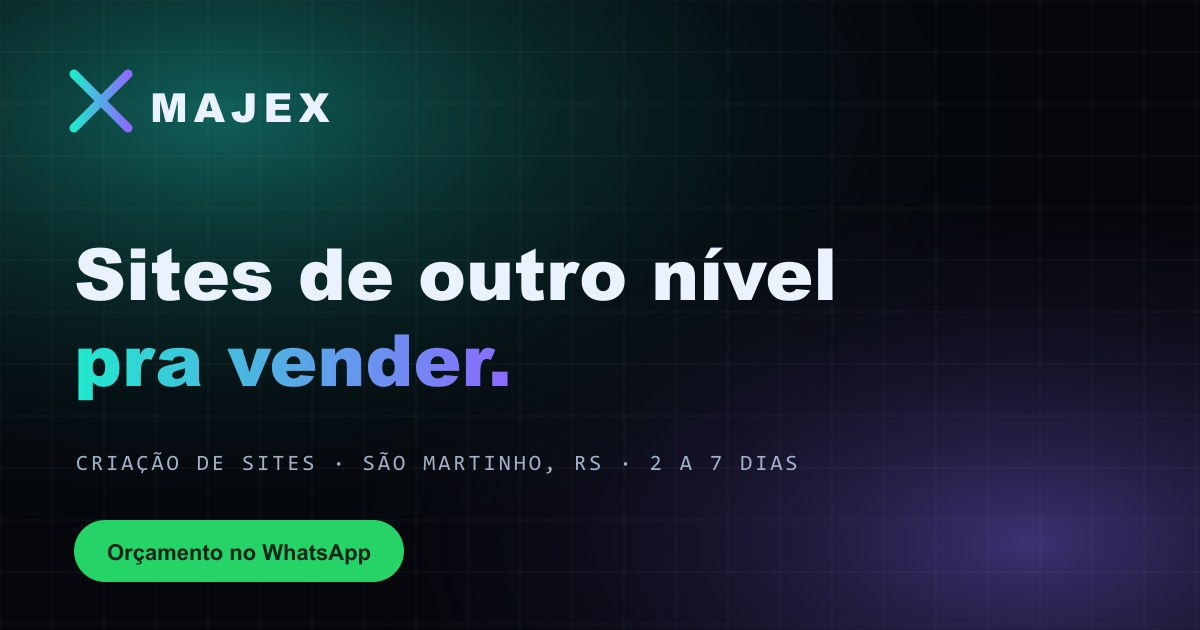
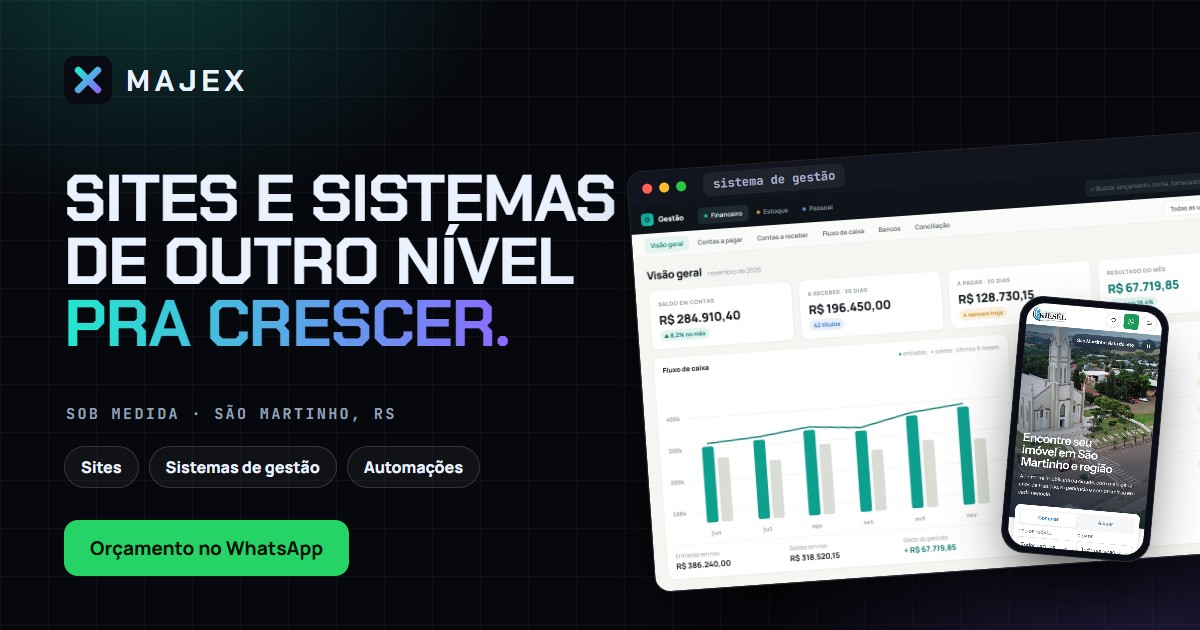
Imagem de compartilhamento nova (sites e sistemas), FAQPage e catálogo de serviços no JSON-LD, sitemap atualizado; imagens abaixo da dobra carregam sob demanda (celular 836→412 KB na abertura)

diff --git a/index.html b/index.html
@@ -13,7 +13,7 @@
 <meta property="og:image" content="https://www.majexsites.com.br/og.jpg">
 <meta property="og:image:width" content="1200">
 <meta property="og:image:height" content="630">
-<meta property="og:image:alt" content="MAJEX Digital Solutions: criação de sites">
+<meta property="og:image:alt" content="MAJEX Digital Solutions: sites, sistemas de gestão e automações sob medida">
 <meta property="og:locale" content="pt_BR">
 <meta property="og:site_name" content="MAJEX Digital Solutions">
 <meta name="twitter:card" content="summary_large_image">
@@ -23,7 +23,7 @@
 <meta name="theme-color" content="#05070C">
 <link rel="preload" as="image" href="img/shot-1-1280.webp" imagesrcset="img/shot-1-640.webp 640w, img/shot-1-1280.webp 1280w" imagesizes="(max-width:760px) 92vw, 900px" fetchpriority="high">
 <link rel="canonical" href="https://www.majexsites.com.br/">
-<script type="application/ld+json">{"@context":"https://schema.org","@type":"ProfessionalService","name":"MAJEX Digital Solutions","alternateName":"MAJEX Sites","description":"Criação de sites e sistemas sob medida para empresas: loja virtual, revenda de veículos, cardápio digital, imobiliária e prestadores de serviço.","url":"https://www.majexsites.com.br/","image":"https://www.majexsites.com.br/og.jpg","telephone":"+55 55 99624-1177","priceRange":"$","address":{"@type":"PostalAddress","addressLocality":"São Martinho","addressRegion":"RS","addressCountry":"BR"},"areaServed":["Santa Rosa","São Martinho","Horizontina","Três de Maio","Santo Cristo","Giruá","Tuparendi","Ijuí","Panambi","Cruz Alta","Noroeste do Rio Grande do Sul","Brasil"],"sameAs":["https://www.instagram.com/majexds/"],"knowsAbout":["criação de sites","landing page","sistemas sob medida","automação empresarial","automação de WhatsApp","controle de estoque","sistema financeiro","departamento pessoal","sistema para contabilidade","orçamento com projeto 3D","CRM","integração por API","site para revenda de veículos","cardápio digital","site para imobiliária","site para loja"],"makesOffer":[{"@type":"Offer","itemOffered":{"@type":"Service","name":"Criação de site para empresa"}},{"@type":"Offer","itemOffered":{"@type":"Service","name":"Atualização de estoque para revenda de veículos"}}]}</script>
+<script type="application/ld+json">[{"@context":"https://schema.org","@type":"ProfessionalService","name":"MAJEX Digital Solutions","alternateName":"MAJEX Sites","description":"Criação de sites e sistemas sob medida para empresas: loja virtual, revenda de veículos, cardápio digital, imobiliária e prestadores de serviço.","url":"https://www.majexsites.com.br/","image":"https://www.majexsites.com.br/og.jpg","telephone":"+55 55 99624-1177","priceRange":"$","address":{"@type":"PostalAddress","addressLocality":"São Martinho","addressRegion":"RS","addressCountry":"BR"},"areaServed":["Santa Rosa","São Martinho","Horizontina","Três de Maio","Santo Cristo","Giruá","Tuparendi","Ijuí","Panambi","Cruz Alta","Noroeste do Rio Grande do Sul","Brasil"],"sameAs":["https://www.instagram.com/majexds/"],"knowsAbout":["criação de sites","landing page","sistemas sob medida","automação empresarial","automação de WhatsApp","controle de estoque","sistema financeiro","departamento pessoal","sistema para contabilidade","orçamento com projeto 3D","CRM","integração por API","site para revenda de veículos","cardápio digital","site para imobiliária","site para loja"],"makesOffer":[{"@type":"Offer","itemOffered":{"@type":"Service","name":"Criação de site para empresa"}},{"@type":"Offer","itemOffered":{"@type":"Service","name":"Atualização de estoque para revenda de veículos"}}],"hasOfferCatalog":{"@type":"OfferCatalog","name":"Sites, sistemas e automações","itemListElement":[{"@type":"Offer","itemOffered":{"@type":"Service","name":"Criação de sites","description":"Sites e landing pages sob medida, rápidos e otimizados para o Google, com WhatsApp integrado."}},{"@type":"Offer","itemOffered":{"@type":"Service","name":"Sistema de gestão sob medida","description":"Módulos de financeiro, controle de estoque e departamento pessoal integrados."}},{"@type":"Offer","itemOffered":{"@type":"Service","name":"Automação de WhatsApp","description":"Envio de avisos, lembretes e cobranças programados para muitos contatos."}},{"@type":"Offer","itemOffered":{"@type":"Service","name":"Sistema de orçamentos e projetos 3D","description":"Cálculo automático, desenho técnico, lista de materiais e orçamento em PDF."}},{"@type":"Offer","itemOffered":{"@type":"Service","name":"Integrações por API","description":"Conexão com fornecedores, planilhas, lojas e sistemas existentes."}}]}},{"@context":"https://schema.org","@type":"FAQPage","mainEntity":[{"@type":"Question","name":"Vocês fazem sistemas, além de sites?","acceptedAnswer":{"@type":"Answer","text":"Sim. A MAJEX desenvolve sistemas sob medida: WhatsApp automático, controle de estoque, financeiro, departamento pessoal, rotinas contábeis, orçamentos com projeto em 3D, painéis, CRM e integração com fornecedores. Tudo roda no navegador, no computador e no celular, sem instalar nada."}},{"@type":"Question","name":"Quanto custa um sistema sob medida?","acceptedAnswer":{"@type":"Answer","text":"Depende do tamanho do processo. A gente conversa, entende como a sua equipe trabalha hoje e manda uma proposta com prazo e valor fechados antes de começar. Sem surpresa no meio do caminho."}},{"@type":"Question","name":"E se eu já uso planilhas ou outro sistema?","acceptedAnswer":{"@type":"Answer","text":"Melhor ainda: aproveitamos o que já existe. Importamos as planilhas e, quando o sistema atual permite, fazemos a integração para os dados conversarem sem ninguém precisar digitar duas vezes."}},{"@type":"Question","name":"Quanto tempo leva para ficar pronto?","acceptedAnswer":{"@type":"Answer","text":"Na maioria dos casos, entre 2 e 7 dias. Depende do tamanho do site e da rapidez com que você me envia textos e fotos — mas eu te ajudo com isso também."}},{"@type":"Question","name":"Eu preciso entender de tecnologia?","acceptedAnswer":{"@type":"Answer","text":"Não. A MAJEX cuida de tudo: domínio, e-mail, hospedagem e publicação. Você só me conta sobre o seu negócio e aprova o que eu criar."}},{"@type":"Question","name":"Funciona bem no celular?","acceptedAnswer":{"@type":"Answer","text":"Sempre. Todo site é feito primeiro pensando no celular, porque é de lá que vem a maioria dos seus clientes. Fica perfeito em telefone, tablet e computador."}},{"@type":"Question","name":"Depois de pronto, dá para mudar coisas?","acceptedAnswer":{"@type":"Answer","text":"Claro. Fazemos ajustes até você aprovar, e depois ofereço suporte e pacotes de manutenção para atualizações, novas fotos, promoções e o que surgir."}},{"@type":"Question","name":"Como faço para começar?","acceptedAnswer":{"@type":"Answer","text":"É só chamar a MAJEX no WhatsApp. A gente conversa sobre o seu negócio, eu te passo um orçamento sem compromisso e, se fizer sentido, começamos."}}]}]</script>
 <title>Criação de sites e sistemas sob medida | MAJEX Digital Solutions</title>
 <link rel="icon" href="/favicon.ico" sizes="any">
 <link rel="icon" type="image/svg+xml" href="/favicon.svg">
@@ -1095,7 +1095,7 @@ svg.sb-viz{height:118px}
             <span class="sr-url"><svg viewBox="0 0 24 24" fill="none" stroke="currentColor" stroke-width="2"><rect x="3" y="11" width="18" height="11" rx="2"/><path d="M7 11V7a5 5 0 0 1 10 0v4"/></svg><span id="srUrl">imobiliariakiesel.com.br</span></span>
             <span class="sr-live">LIVE</span></div>
           <div class="sr-screen sr2-screen" id="srScreen">
-            <img class="sr2-img on" data-i="0" alt="Imobiliária Kiesel, versão computador" src="img/vivo-kiesel-desk-1280.webp" srcset="img/vivo-kiesel-desk-1280.webp 1280w, img/vivo-kiesel-desk-2560.webp 2560w" width="1280" height="800" sizes="(max-width:760px) 92vw, 900px" loading="eager" decoding="async" fetchpriority="high">
+            <img class="sr2-img on" data-i="0" alt="Imobiliária Kiesel, versão computador" src="img/vivo-kiesel-desk-1280.webp" srcset="img/vivo-kiesel-desk-1280.webp 1280w, img/vivo-kiesel-desk-2560.webp 2560w" width="1280" height="800" sizes="(max-width:760px) 92vw, 900px" loading="lazy" decoding="async">
             <img class="sr2-img" data-i="1" alt="Grupo Larssen, versão computador" src="img/vivo-larssen-desk-1280.webp" srcset="img/vivo-larssen-desk-1280.webp 1280w, img/vivo-larssen-desk-2560.webp 2560w" width="1280" height="800" sizes="(max-width:760px) 92vw, 900px" loading="lazy" decoding="async">
             <img class="sr2-img" data-i="2" alt="Khaus Brindes, versão computador" src="img/vivo-khaus-desk-1280.webp" srcset="img/vivo-khaus-desk-1280.webp 1280w, img/vivo-khaus-desk-2560.webp 2560w" width="1280" height="800" sizes="(max-width:760px) 92vw, 900px" loading="lazy" decoding="async">
             <img class="sr2-img" data-i="3" alt="Sua Revenda, versão computador" src="img/shot-1-1280.webp" srcset="img/shot-1-640.webp 640w, img/shot-1-1280.webp 1280w" width="1400" height="875" sizes="(max-width:760px) 92vw, 900px" loading="lazy" decoding="async">
@@ -1105,7 +1105,7 @@ svg.sb-viz{height:118px}
           </div>
         </div>
         <div class="sr2-phone"><div class="sr-pshell"><div class="sr-pscreen" id="srPscreen"><div class="sr-notch"></div>
-          <img class="sr2-img on" data-i="0" alt="" src="img/vivo-kiesel-cel-600.webp" srcset="img/vivo-kiesel-cel-600.webp 600w, img/vivo-kiesel-cel-780.webp 780w" sizes="(max-width:760px) 40vw, 240px" width="600" height="1298" loading="eager" decoding="async">
+          <img class="sr2-img on" data-i="0" alt="" src="img/vivo-kiesel-cel-600.webp" srcset="img/vivo-kiesel-cel-600.webp 600w, img/vivo-kiesel-cel-780.webp 780w" sizes="(max-width:760px) 40vw, 240px" width="600" height="1298" loading="lazy" decoding="async">
           <img class="sr2-img" data-i="1" alt="" src="img/vivo-larssen-cel-600.webp" srcset="img/vivo-larssen-cel-600.webp 600w, img/vivo-larssen-cel-780.webp 780w" sizes="(max-width:760px) 40vw, 240px" width="600" height="1298" loading="lazy" decoding="async">
           <img class="sr2-img" data-i="2" alt="" src="img/vivo-khaus-cel-600.webp" srcset="img/vivo-khaus-cel-600.webp 600w, img/vivo-khaus-cel-780.webp 780w" sizes="(max-width:760px) 40vw, 240px" width="600" height="1298" loading="lazy" decoding="async">
           <img class="sr2-img" data-i="3" alt="" src="img/shot-5-320.webp" srcset="img/shot-5-320.webp 320w" sizes="(max-width:760px) 40vw, 240px" width="600" height="1298" loading="lazy" decoding="async">
@@ -2116,7 +2116,7 @@ svg.sb-viz{height:118px}
   function liga(){ clearInterval(t); t=setInterval(function(){ if(visivel && !c.classList.contains("pausa")) vai(i+1); },DUR); }
   bts.forEach(function(b,k){ b.addEventListener("click",function(){ vai(k); liga(); }); });
   var tela=c.querySelector(".pf4-shell"); tela.addEventListener("mouseenter",function(){ c.classList.add("pausa"); }); tela.addEventListener("mouseleave",function(){ c.classList.remove("pausa"); });
-  ims.slice(1).forEach(function(im){ im.loading="eager"; });
+  
   if("IntersectionObserver" in window){ new IntersectionObserver(function(es){ visivel=es[0].isIntersecting; },{threshold:.35}).observe(c); } else visivel=true;
   liga();
 })();
